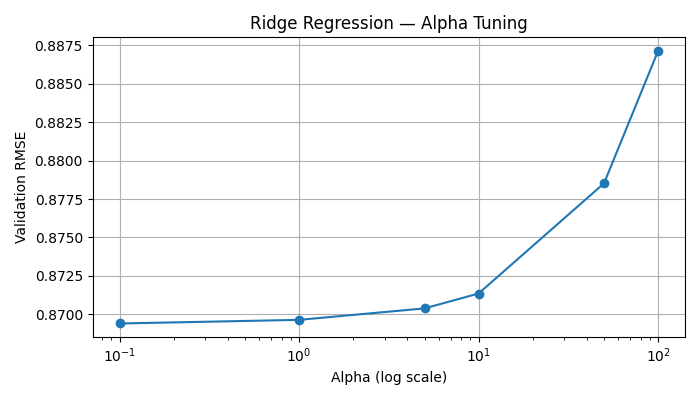
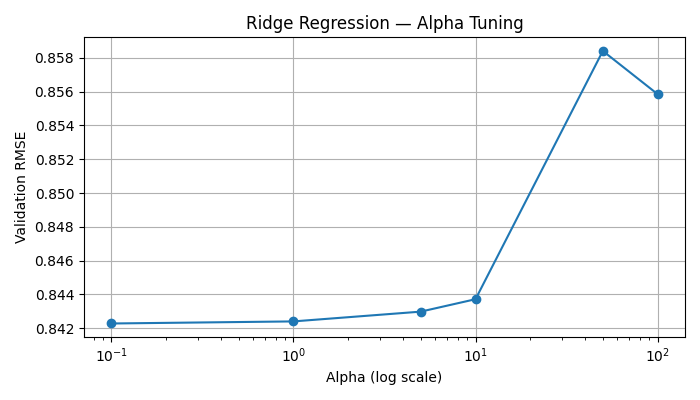
TF-IDF features combined with a Ridge Regression model. Added user and product bias features, then enhanced the representation with TruncatedSVD (200 components) to capture latent semantic information. Refined the model by applying smoothed bias (k=10) for better stability on sparse data. Incorporat

diff --git a/src/features.py b/src/features.py
@@ -5,6 +5,27 @@ from sklearn.preprocessing import Normalizer
 from scipy.sparse import hstack, csr_matrix
 import pandas as pd
 import numpy as np
+from vaderSentiment.vaderSentiment import SentimentIntensityAnalyzer
+
+_sia = SentimentIntensityAnalyzer()
+
+
+def build_sentiment_features(df):
+    """VADER sentiment scores on Summary and Text columns."""
+    summaries = df["Summary"].fillna("").astype(str)
+    texts = df["Text"].fillna("").astype(str)
+
+    summary_scores = summaries.apply(_sia.polarity_scores)
+    text_scores = texts.apply(_sia.polarity_scores)
+
+    result = pd.DataFrame(index=df.index)
+    result["summary_vader_compound"] = summary_scores.apply(lambda s: s["compound"])
+    result["summary_vader_pos"]      = summary_scores.apply(lambda s: s["pos"])
+    result["summary_vader_neg"]      = summary_scores.apply(lambda s: s["neg"])
+    result["text_vader_compound"]    = text_scores.apply(lambda s: s["compound"])
+    result["text_vader_pos"]         = text_scores.apply(lambda s: s["pos"])
+    result["text_vader_neg"]         = text_scores.apply(lambda s: s["neg"])
+    return result
 
 
 def build_bias_features(train_labeled, all_data, shrinkage=10):
@@ -103,6 +124,11 @@ def prepare_training_data(training_df, text_column="Text", max_features=30000, n
 
     # Numeric features
     num_feats = build_numeric_features(labeled)
+
+    # Sentiment features
+    sentiment = build_sentiment_features(labeled)
+    num_feats = pd.concat([num_feats, sentiment], axis=1)
+
     numeric_columns = num_feats.columns.tolist()
 
     # Custom stopwords
@@ -154,6 +180,8 @@ def prepare_test_data(test_df, tfidf, svd, numeric_columns, labeled_df, text_col
 
     # Numeric features
     num_feats = build_numeric_features(test_df)
+    sentiment = build_sentiment_features(test_df)
+    num_feats = pd.concat([num_feats, sentiment], axis=1)
     num_feats = num_feats.reindex(columns=numeric_columns, fill_value=0).fillna(0)
 
     combined_text = (
